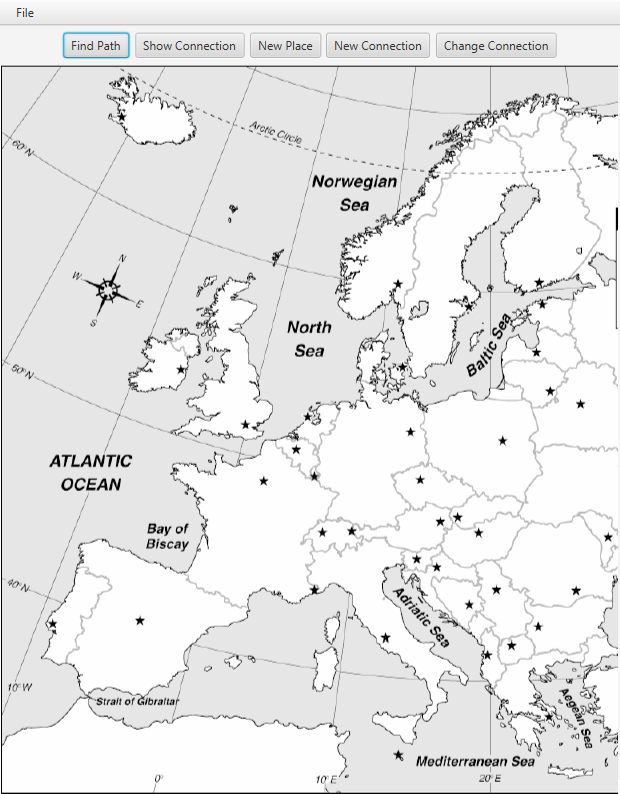
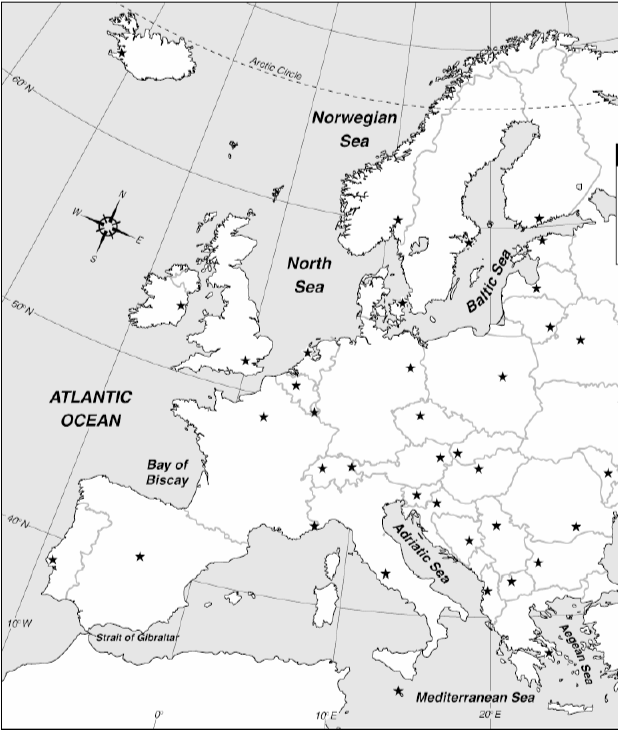
SaveImage fix

diff --git a/src/MapFX.java b/src/MapFX.java
@@ -149,7 +149,7 @@ public class MapFX extends Application{
     class saveImageHandler implements EventHandler<ActionEvent> {
         public void handle(ActionEvent e) {
             try {
-                WritableImage image = vbox.snapshot(null, null);
+                WritableImage image = imageView.snapshot(null, null);
                 BufferedImage bufferedImage = SwingFXUtils.fromFXImage(image, null);
                 ImageIO.write(bufferedImage, "png", new File("capture.png"));
             } catch (IOException i) {
